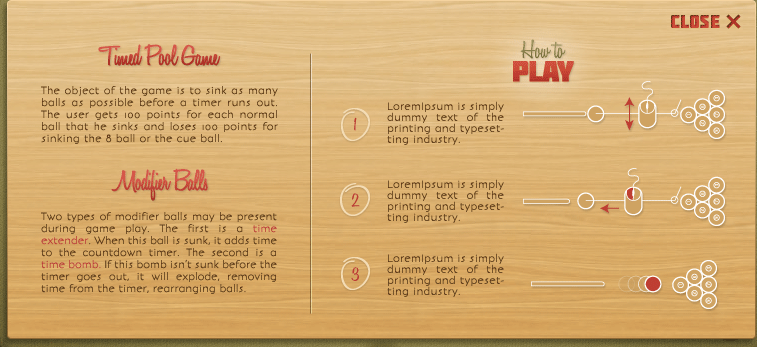
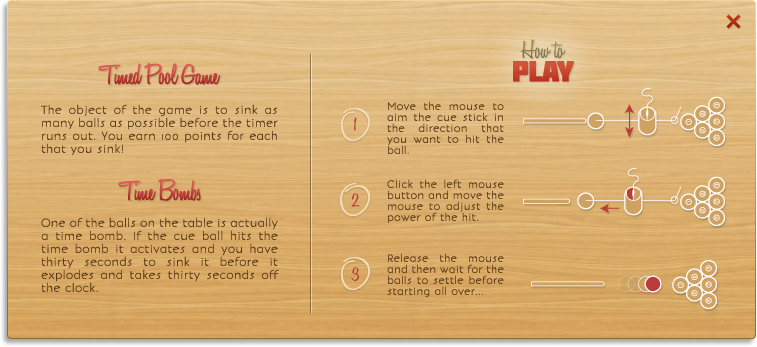
- added the instructions screen - fixed the selection issues (hopefully) - updated the preloader files
git-svn-id: https://pixellab.springloops.com/source/eightball/trunk@336 efd6ee18-2b61-4776-8ca0-166b4ef03a6b

diff --git a/javascripts/app_preload.js b/javascripts/app_preload.js
@@ -9,7 +9,79 @@ $(document).ready(function() {
     loadApp(true);
   } else {
 
-    var files = ['images/ballvignette.png', 'images/bestscore.png', 'images/cue.png', 'images/howtoplay.png', 'images/instructions.png', 'images/lightoff.png', 'images/lighton.png', 'images/loading.jpg', 'images/loadingbg.png', 'images/loadingpg.png', 'images/num1.png', 'images/num10.png', 'images/num11.png', 'images/num12.png', 'images/num13.png', 'images/num14.png', 'images/num15.png', 'images/num2.png', 'images/num3.png', 'images/num4.png', 'images/num5.png', 'images/num6.png', 'images/num7.png', 'images/num8.png', 'images/num9.png', 'images/pause.png', 'images/progressbg.png', 'images/progressunit.png', 'images/score.png', 'images/smalllogo.png', 'images/speaker.png', 'images/startover.png', 'images/table.jpg', 'images/tableborder.png', 'images/timeremaining.png', 'images/transparent.png', 'images/triangle.png', 'images/vignette.png', 'images/wood.jpg', 'sounds/theme.mp4'];
+    var files = [
+    'images/ballvignette.png',
+    'images/bestscore.png',
+    'images/bombicon.png',
+    'images/bombstamp.png',
+    'images/boom.png',
+    'images/cue.png',
+    'images/gamefacebook.png',
+    'images/gamefacebookover.png',
+    'images/gameover.png',
+    'images/gametwitter.png',
+    'images/gametwitterover.png',
+    'images/howtoplay.png',
+    'images/instructions.png',
+    'images/letter.png',
+    'images/lightoff.png',
+    'images/lighton.png',
+    'images/loading.jpg',
+    'images/loadingbg.png',
+    'images/loadingpg.png',
+    'images/num1.png',
+    'images/num10.png',
+    'images/num11.png',
+    'images/num12.png',
+    'images/num13.png',
+    'images/num14.png',
+    'images/num15.png',
+    'images/num2.png',
+    'images/num3.png',
+    'images/num4.png',
+    'images/num5.png',
+    'images/num6.png',
+    'images/num7.png',
+    'images/num8.png',
+    'images/num9.png',
+    'images/pause.png',
+    'images/pixellab.png',
+    'images/pixellabover.png',
+    'images/progressbg.png',
+    'images/progressunit.png',
+    'images/score.png',
+    'images/smalllogo.png',
+    'images/speaker.png',
+    'images/start.png',
+    'images/startover.png',
+    'images/startoverlay.png',
+    'images/suspended.png',
+    'images/table.jpg',
+    'images/tableborder.png',
+    'images/timerbg.png',
+    'images/timeremaining.png',
+    'images/transparent.png',
+    'images/triangle.png',
+    'images/vignette.png',
+    'images/wood.jpg',
+    'sounds/activate.mp3',
+    'sounds/bombtick.mp3',
+    'sounds/bombtickfast.mp3',
+    'sounds/bombtickslow.mp3',
+    'sounds/break.mp3',
+    'sounds/clack.mp3',
+    'sounds/clackquiet.mp3',
+    'sounds/cuehit.mp3',
+    'sounds/cuestick.mp3',
+    'sounds/deactivate.mp3',
+    'sounds/explode.mp3',
+    'sounds/explodeloud.mp3',
+    'sounds/pocket.mp3',
+    'sounds/theme.mp4',
+    'sounds/typing.mp3',
+    'sounds/wall.mp3',
+    'sounds/wallquiet.mp3',
+    ];
 
     var prog = function(perc) {
       $('#loadingpg').width(237 * perc);

diff --git a/index.html b/index.html
@@ -16,7 +16,7 @@
     <script src="javascripts/deps.js" type="text/javascript"></script>
     <script src="javascripts/application.js" type="text/javascript"></script>
 </head>
-<body>
+<body onselectstart="return false;">
     <div id="loadingbg">
         <img style="position: absolute; width: 100%; height: 100%; left: 0px; top: 0px;"
             src="images/vignette.png" class="stretch" alt="" />
@@ -48,8 +48,6 @@
         <div id="bestscore">
         </div>
         <div id="score">
-        </div>
-        <div id="howtoplay">
         </div>
         <div id="smalllogo">
         </div>
@@ -86,6 +84,9 @@
     <canvas id="cue_canvas" class="hidden"></canvas>
 
     <div id="gamecontrolsclick" class="content hidden">
+
+        <div id="howtoplay">
+        </div>
 
         <div id="instructionsclick">
         </div>

diff --git a/javascripts/application.js b/javascripts/application.js
@@ -440,8 +440,16 @@ var loadApp = function (skip_graphics) {
 
   $("#instructionsclick").click(function () {
     game.togglePaused();
+    poolTable.pause();
     $("#howtoplay").fadeIn(200);
     $("#cue_canvas").fadeOut(200);
+  });
+
+  $("#howtoplay").click(function () {
+    game.togglePaused();
+    poolTable.resume();
+    $("#howtoplay").fadeOut(200);
+    $("#cue_canvas").fadeIn(200);
   });
 
   // music on/off

diff --git a/stylesheets/style.css b/stylesheets/style.css
@@ -248,6 +248,7 @@ body {
     background-repeat: no-repeat;
     width: 757px;
     height: 347px;
+    cursor: pointer;
     display: none;
 }
 
